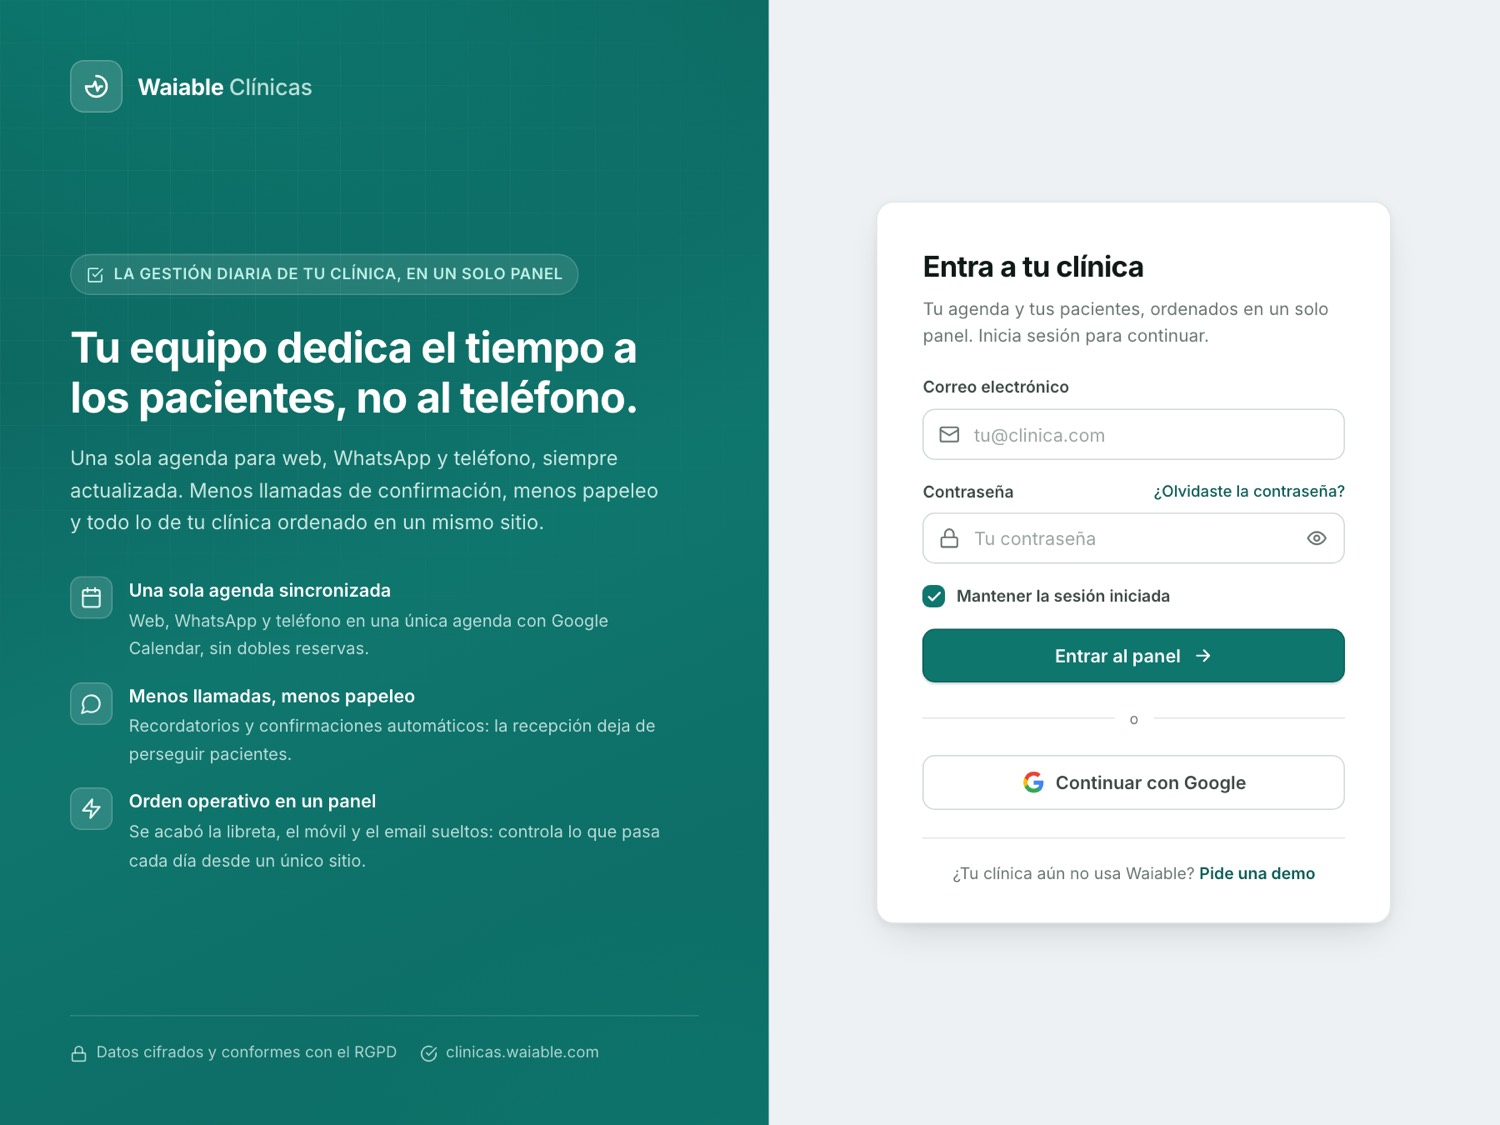
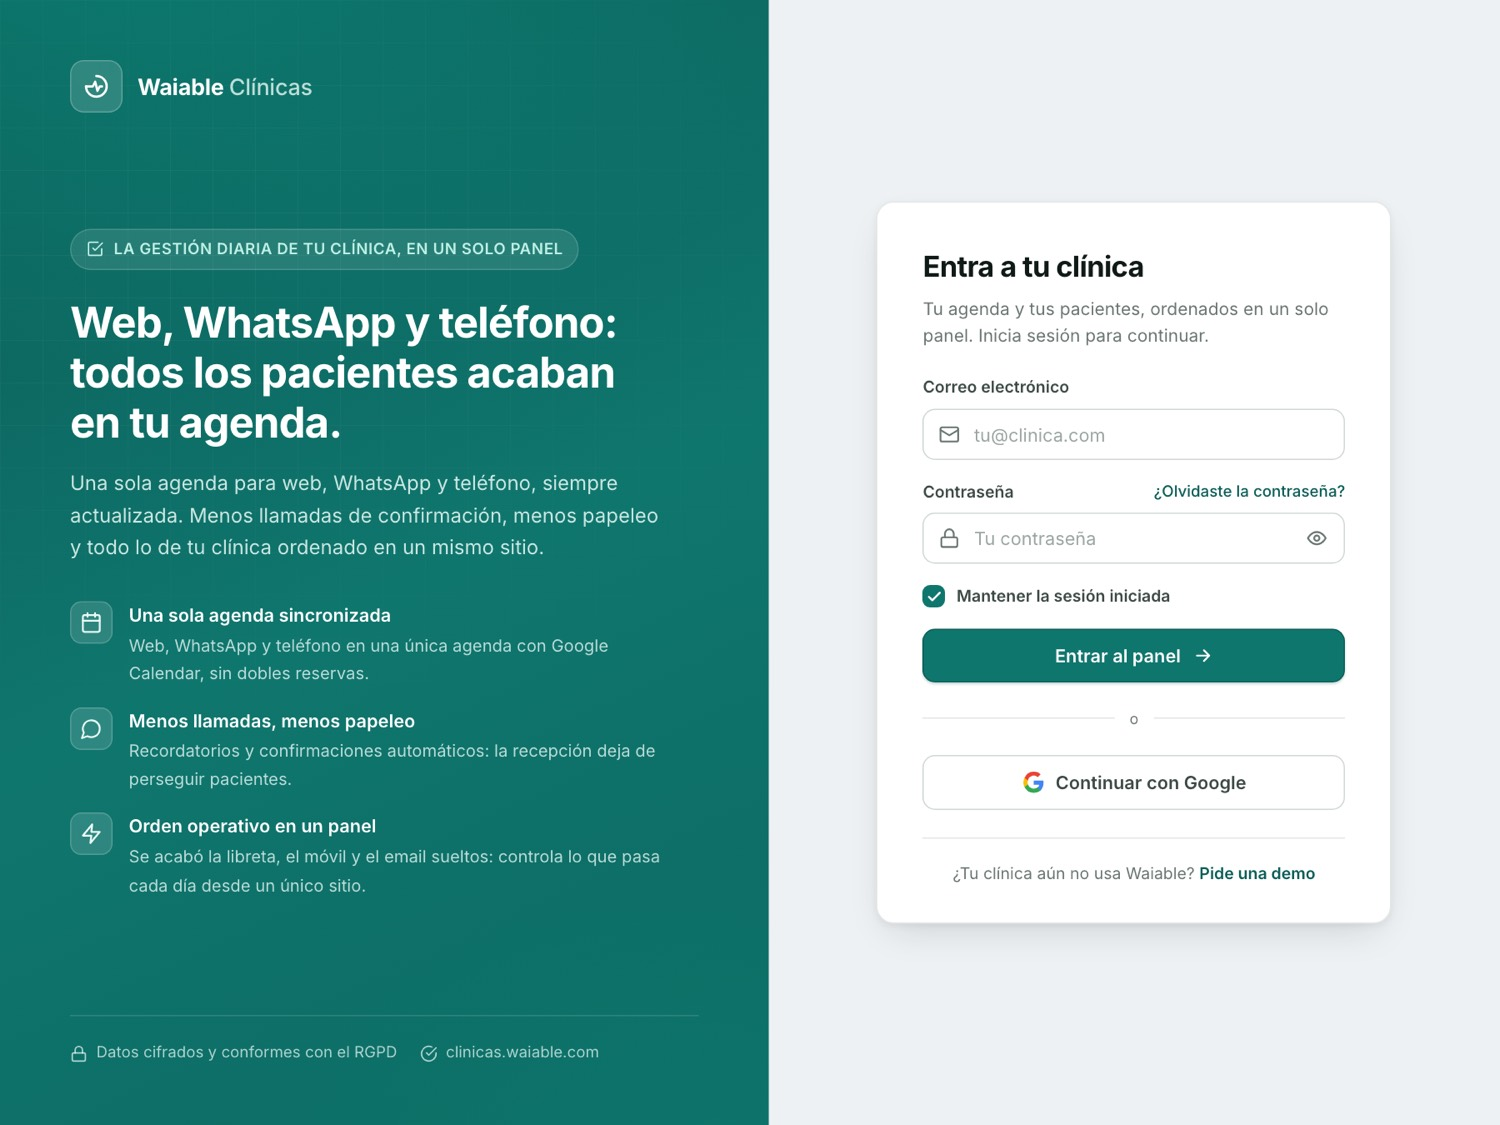
Login: mismo titular de captación que registro

Changed region(s): [[0.0307, 0.1867, 0.4293, 0.8089]]

diff --git a/acceso/login.html b/acceso/login.html
@@ -291,7 +291,7 @@
           <svg viewBox="0 0 24 24" fill="none" stroke="currentColor" stroke-width="2" stroke-linecap="round" stroke-linejoin="round" aria-hidden="true"><path d="m9 11 3 3L22 4"/><path d="M21 12v7a2 2 0 0 1-2 2H5a2 2 0 0 1-2-2V5a2 2 0 0 1 2-2h11"/></svg>
           La gestión diaria de tu clínica, en un solo panel
         </span>
-        <h1 class="brand-h1">Tu equipo dedica el tiempo a los pacientes, no al teléfono.</h1>
+        <h1 class="brand-h1">Web, WhatsApp y teléfono: todos los pacientes acaban en tu agenda.</h1>
         <p class="brand-lead">Una sola agenda para web, WhatsApp y teléfono, siempre actualizada. Menos llamadas de confirmación, menos papeleo y todo lo de tu clínica ordenado en un mismo sitio.</p>
 
         <ul class="value-list">
